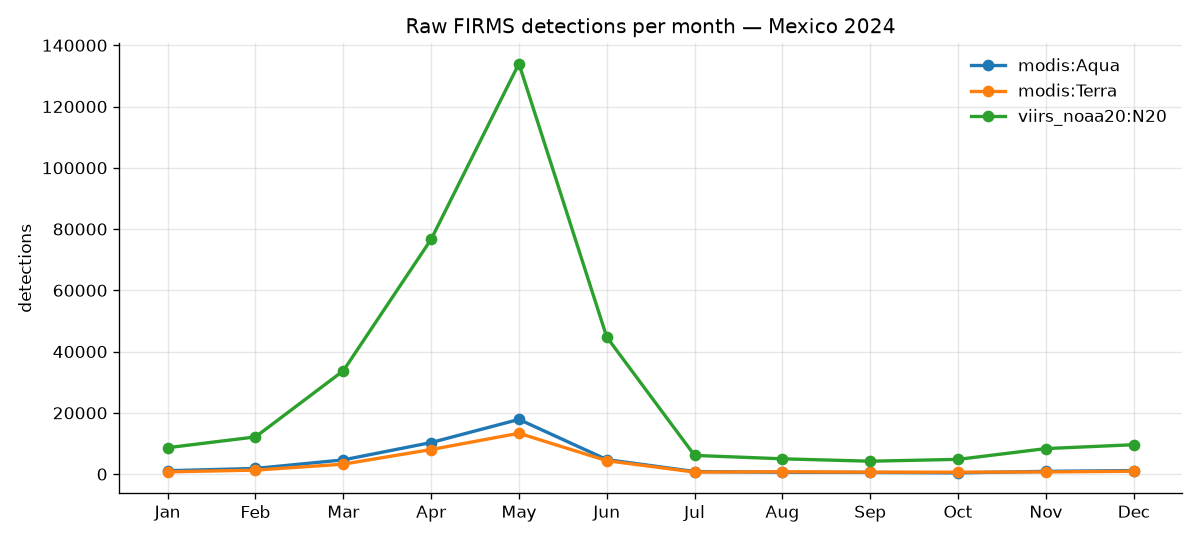
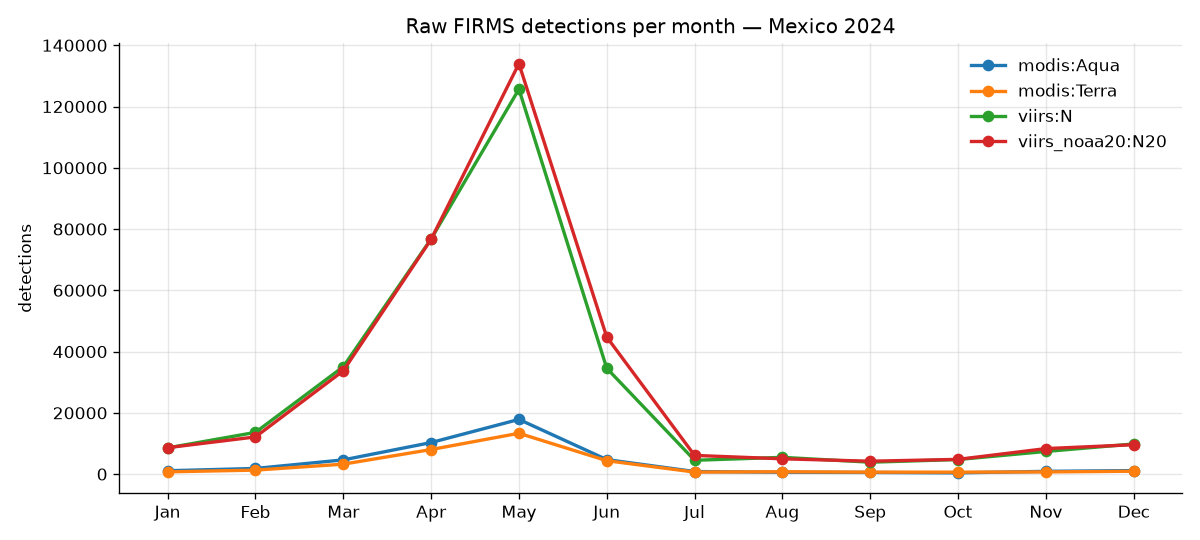
Phase 1: add VIIRS S-NPP to exploration, report data gaps
- Exploration report now covers MODIS, VIIRS S-NPP (method input) and NOAA-20
- Days without any detection are reported as compact date ranges
  (S-NPP has 20 such days in 2024, clearly data gaps)
- web: add @types/leaflet dev dependency (approved by the team)

Claude-Session: https://claude.ai/code/session_01SBBh7moCfLYDBYE3KrVkvk

diff --git a/pipeline/inspect_data.py b/pipeline/inspect_data.py
@@ -63,6 +63,21 @@ def confidence_section(key: str, df: pd.DataFrame) -> str:
     return md_table(counts(conf, "confidence"), index=False)
 
 
+def format_runs(days: pd.DatetimeIndex) -> str:
+    """Compact consecutive days into ranges, e.g. '2024-05-30 → 06-03 (5 d)'."""
+    runs: list[list[pd.Timestamp]] = []
+    for d in days:
+        if runs and (d - runs[-1][1]).days == 1:
+            runs[-1][1] = d
+        else:
+            runs.append([d, d])
+    parts = []
+    for a, b in runs:
+        n = (b - a).days + 1
+        parts.append(f"{a:%Y-%m-%d}" if n == 1 else f"{a:%Y-%m-%d} → {b:%m-%d} ({n} d)")
+    return ", ".join(parts)
+
+
 def surprises(key: str, df: pd.DataFrame) -> list[str]:
     notes = []
     years = df["acq_date"].dt.year.unique()
@@ -81,9 +96,8 @@ def surprises(key: str, df: pd.DataFrame) -> list[str]:
     all_days = pd.date_range(f"{config.YEAR}-01-01", f"{config.YEAR}-12-31", freq="D")
     missing = all_days.difference(df["acq_date"].dt.normalize().unique())
     if len(missing):
-        shown = ", ".join(d.strftime("%Y-%m-%d") for d in missing[:10])
-        notes.append(f"{len(missing)} day(s) with no detections at all: {shown}"
-                     + (" ..." if len(missing) > 10 else ""))
+        notes.append(f"{len(missing)} day(s) with no detections at all "
+                     f"(likely data gaps, not days without fire): {format_runs(missing)}")
     return notes
 
 

diff --git a/data/reports/01_exploracion.md b/data/reports/01_exploracion.md
@@ -1,6 +1,6 @@
 # 01 — Data exploration (Mexico, 2024)
 
-Generated 2026-11-08T04:10:01+00:00 by `pipeline/inspect_data.py`.
+Generated 2026-11-08T04:16:10+00:00 by `pipeline/inspect_data.py`.
 Raw files, no filters applied.
 
 ## Files
@@ -8,7 +8,7 @@ Raw files, no filters applied.
 | key | file | role | rows |
 |---|---|---|---|
 | modis | `modis_2024_Mexico.csv` | method input | 80,390 |
-| viirs | `viirs-snpp_2024_Mexico.csv` | method input | **MISSING** |
+| viirs | `viirs-snpp_2024_Mexico.csv` | method input | 330,134 |
 | viirs_noaa20 | `viirs-jpss1_2024_Mexico.csv` | alternative (not in scope) | 347,959 |
 
 ## NASA FIRMS MODIS C6.1 (`modis`)
@@ -85,6 +85,76 @@ Numeric summary: min 0, median 71, max 100.
 
 - No issues found.
 
+## NASA FIRMS VIIRS S-NPP 375 m (`viirs`)
+
+### Rows by satellite
+
+| satellite | rows | share |
+|---|---|---|
+| N | 330,134 | 100.0% |
+
+### Columns and types
+
+| column | dtype | example |
+|---|---|---|
+| latitude | float64 | 28.69653 |
+| longitude | float64 | -100.51449 |
+| bright_ti4 | float64 | 304.95 |
+| scan | float64 | 0.45 |
+| track | float64 | 0.63 |
+| acq_date | datetime64[us] | 2024-01-01 00:00:00 |
+| acq_time | str | 0739 |
+| satellite | str | N |
+| instrument | str | VIIRS |
+| confidence | str | n |
+| version | int64 | 2 |
+| bright_ti5 | float64 | 280.84 |
+| frp | float64 | 1.37 |
+| daynight | str | N |
+| type | int64 | 0 |
+
+### `type`
+
+| type | meaning | rows | share |
+|---|---|---|---|
+| 0 | vegetation fire | 293,133 | 88.8% |
+| 1 | active volcano | 228 | 0.1% |
+| 2 | other static land source | 35,782 | 10.8% |
+| 3 | offshore | 991 | 0.3% |
+
+### `confidence`
+
+| confidence | rows | share |
+|---|---|---|
+| h | 18,361 | 5.6% |
+| l | 43,015 | 13.0% |
+| n | 268,758 | 81.4% |
+
+### `daynight`
+
+| daynight | rows | share |
+|---|---|---|
+| D | 208,104 | 63.0% |
+| N | 122,030 | 37.0% |
+
+### Overpass hours (UTC, `acq_time`)
+
+| satellite | daynight | hour range (UTC) |
+|---|---|---|
+| N | D | 18–21 |
+| N | N | 06–10 |
+
+### Coverage
+
+- Date range: 2024-01-01 to 2024-12-31 (346 distinct days)
+- Bounding box: lon -117.095 to -86.827, lat 14.554 to 32.706
+- FRP (MW): median 4.8, p95 27.1, max 1022.7
+
+### Checks
+
+- ⚠ 1 exact duplicate detections (same lat/lon/date/time/satellite)
+- ⚠ 20 day(s) with no detections at all (likely data gaps, not days without fire): 2024-05-30 → 06-03 (5 d), 2024-07-10 → 07-15 (6 d), 2024-07-24 → 07-28 (5 d), 2024-09-26, 2024-11-03 → 11-05 (3 d)
+
 ## NASA FIRMS VIIRS NOAA-20 375 m (`viirs_noaa20`)
 
 ### Rows by satellite
@@ -153,24 +223,24 @@ Numeric summary: min 0, median 71, max 100.
 ### Checks
 
 - ⚠ 1 exact duplicate detections (same lat/lon/date/time/satellite)
-- ⚠ 1 day(s) with no detections at all: 2024-02-04
+- ⚠ 1 day(s) with no detections at all (likely data gaps, not days without fire): 2024-02-04
 
 ## Detections per month (raw, all types and confidences)
 
-| month | modis:Aqua | modis:Terra | viirs_noaa20:N20 |
-|---|---|---|---|
-| Jan | 1,099 | 744 | 8,630 |
-| Feb | 1,850 | 1,305 | 12,145 |
-| Mar | 4,647 | 3,253 | 33,733 |
-| Apr | 10,304 | 8,025 | 76,638 |
-| May | 17,860 | 13,337 | 133,996 |
-| Jun | 4,737 | 4,384 | 44,748 |
-| Jul | 845 | 664 | 6,109 |
-| Aug | 606 | 775 | 4,996 |
-| Sep | 545 | 643 | 4,215 |
-| Oct | 408 | 641 | 4,817 |
-| Nov | 907 | 713 | 8,335 |
-| Dec | 1,154 | 944 | 9,597 |
-| **total** | 44,962 | 35,428 | 347,959 |
+| month | modis:Aqua | modis:Terra | viirs:N | viirs_noaa20:N20 |
+|---|---|---|---|---|
+| Jan | 1,099 | 744 | 8,564 | 8,630 |
+| Feb | 1,850 | 1,305 | 13,628 | 12,145 |
+| Mar | 4,647 | 3,253 | 35,056 | 33,733 |
+| Apr | 10,304 | 8,025 | 76,772 | 76,638 |
+| May | 17,860 | 13,337 | 125,673 | 133,996 |
+| Jun | 4,737 | 4,384 | 34,556 | 44,748 |
+| Jul | 845 | 664 | 4,514 | 6,109 |
+| Aug | 606 | 775 | 5,481 | 4,996 |
+| Sep | 545 | 643 | 3,886 | 4,215 |
+| Oct | 408 | 641 | 4,762 | 4,817 |
+| Nov | 907 | 713 | 7,397 | 8,335 |
+| Dec | 1,154 | 944 | 9,845 | 9,597 |
+| **total** | 44,962 | 35,428 | 330,134 | 347,959 |
 
 ![Monthly detections](01_monthly_detections.png)
